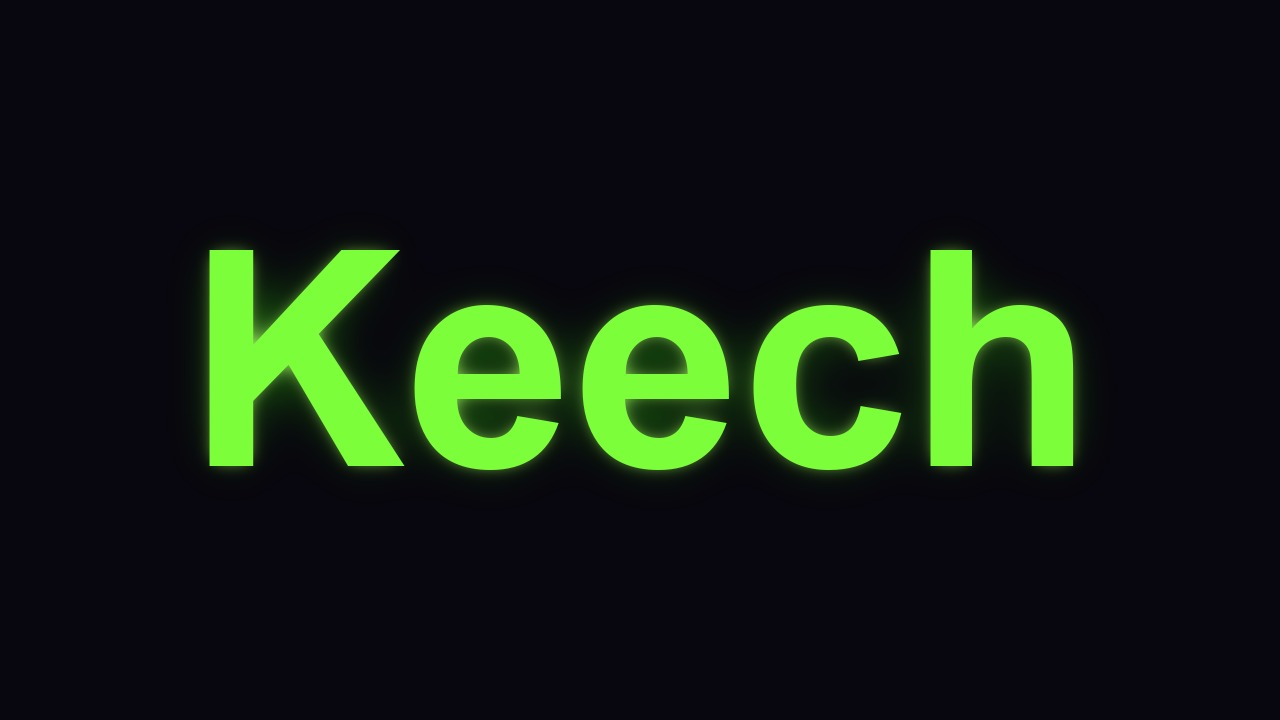
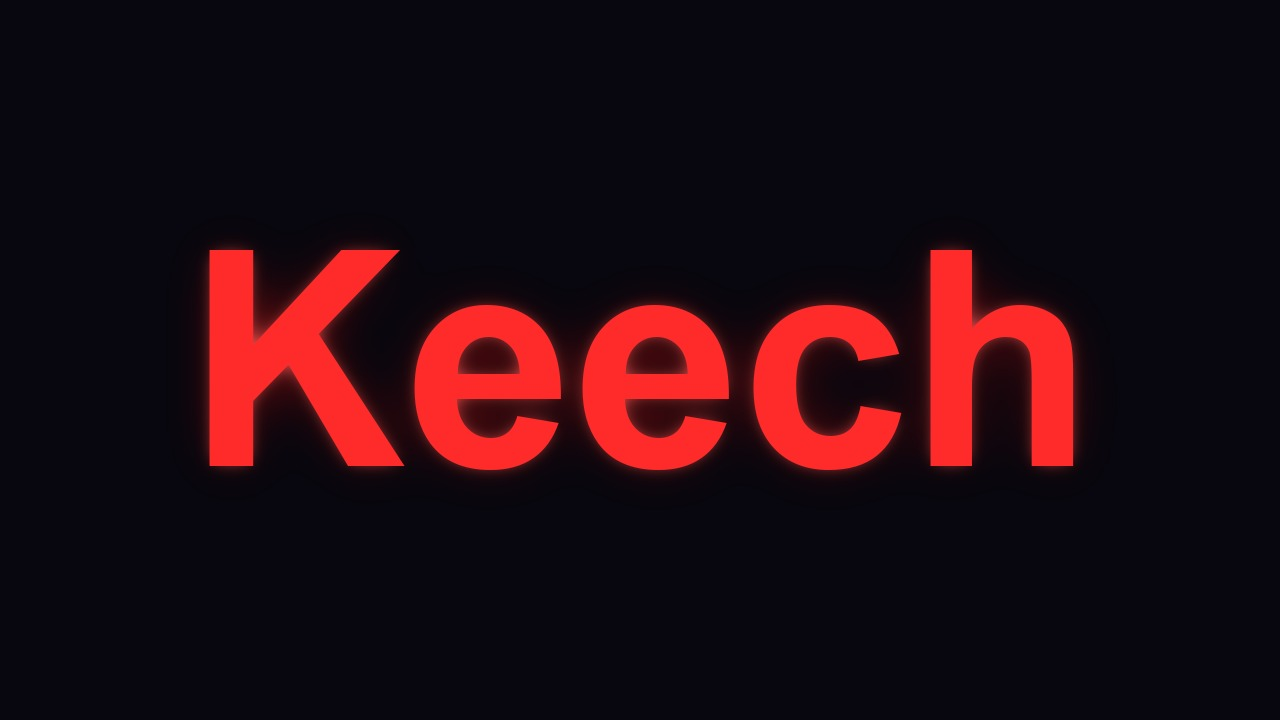
Switch Halloween nick to bright scarlet and refresh BP art.
Flat #FF2A2A on ratings and matching reward cutout/preview.

Changed region(s): [[0.1562, 0.3361, 0.8438, 0.6722]]

diff --git a/src/app/globals.css b/src/app/globals.css
@@ -1392,9 +1392,9 @@ body:has(.tm-sapper-page) {
   position: relative;
   display: inline-block;
   overflow: visible;
-  color: #7CFF3A;
+  color: #FF2A2A;
   background: none;
-  -webkit-text-fill-color: #7CFF3A;
+  -webkit-text-fill-color: #FF2A2A;
   -webkit-text-stroke: 0;
   font-family: var(--font-display), Oxanium, Manrope, sans-serif;
   font-size: 1.28rem;
@@ -1402,10 +1402,10 @@ body:has(.tm-sapper-page) {
   letter-spacing: 0.03em;
   line-height: 1.05;
   text-transform: none;
-  /* яркий плоский неон, без объёма — буквы читаются */
+  /* ярко-алый плоский неон, без объёма */
   text-shadow:
-    0 0 6px rgba(124, 255, 58, 0.85),
-    0 0 14px rgba(57, 255, 20, 0.45);
+    0 0 6px rgba(255, 42, 42, 0.9),
+    0 0 14px rgba(255, 20, 20, 0.5);
   transition: text-shadow 0.16s ease, color 0.16s ease;
 }
 .public-rating-nick-label.is-halloween-gothic::before,
@@ -1416,11 +1416,11 @@ body:has(.tm-sapper-page) {
   .public-rating-nick-label.is-halloween-gothic,
 .public-rating-nick-btn.has-custom-nick-style:focus-visible
   .public-rating-nick-label.is-halloween-gothic {
-  color: #A8FF66;
-  -webkit-text-fill-color: #A8FF66;
+  color: #FF5555;
+  -webkit-text-fill-color: #FF5555;
   text-shadow:
-    0 0 8px rgba(168, 255, 102, 0.95),
-    0 0 18px rgba(124, 255, 58, 0.55);
+    0 0 8px rgba(255, 85, 85, 0.95),
+    0 0 18px rgba(255, 42, 42, 0.6);
 }
 .nick-patch-mark,
 .public-rating-bp-patch-test {
@@ -10287,17 +10287,17 @@ body:has(.home-page) {
   position: relative;
   display: inline-block;
   overflow: visible;
-  color: #7CFF3A;
+  color: #FF2A2A;
   background: none;
-  -webkit-text-fill-color: #7CFF3A;
+  -webkit-text-fill-color: #FF2A2A;
   -webkit-text-stroke: 0;
   font-family: var(--font-display), Oxanium, Manrope, sans-serif;
   font-size: 1.28rem;
   font-weight: 900;
   letter-spacing: 0.03em;
   text-shadow:
-    0 0 6px rgba(124, 255, 58, 0.85),
-    0 0 14px rgba(57, 255, 20, 0.45);
+    0 0 6px rgba(255, 42, 42, 0.9),
+    0 0 14px rgba(255, 20, 20, 0.5);
 }
 
 .home-nick-label.is-halloween-gothic::before,

diff --git a/src/lib/battlePassSeason2.ts b/src/lib/battlePassSeason2.ts
@@ -229,13 +229,13 @@ export const BP_S2_REWARDS: BpReward[] = [
   {
     level: 15,
     id: "hw2-nick",
-    name: "Неоновая жатва",
+    name: "Алая жатва",
     short: "Текст",
     kind: "nick",
     preview:
-      "Яркий неоново-зелёный ник — плоские чёткие буквы",
-    hover: "Неоновая жатва · ур. 15 Season 2 Halloween",
-    image: "/bp-halloween/nick-v2.jpg?v=neon1",
+      "Ярко-алый неоновый ник — плоские чёткие буквы",
+    hover: "Алая жатва · ур. 15 Season 2 Halloween",
+    image: "/bp-halloween/nick-v2.jpg?v=scarlet1",
   },
   {
     level: 20,
@@ -273,7 +273,7 @@ export function s2RewardFullImage(reward: BpReward): string {
   if (reward.id === "hw2-knife") return "/bp-halloween/knife-hook-v2-cutout.png?v=blood1";
   if (reward.id === "hw2-gun") return "/bp-halloween/weapon-ak-v2-cutout.png?v=blood1";
   if (reward.id === "hw2-trophy") return "/bp-halloween/pomegranate-relic-v1-cutout.png?v=3";
-  if (reward.id === "hw2-nick") return "/bp-halloween/nick-v2-cutout.png?v=neon1";
+  if (reward.id === "hw2-nick") return "/bp-halloween/nick-v2-cutout.png?v=scarlet1";
   return reward.image || BP_S2_IDLE_ART;
 }
 
@@ -286,7 +286,7 @@ export function s2RewardMileImage(reward: BpReward): string {
   if (reward.id === "hw2-knife") return "/bp-halloween/knife-hook-v2-cutout.png?v=blood1";
   if (reward.id === "hw2-gun") return "/bp-halloween/weapon-ak-v2-cutout.png?v=blood1";
   if (reward.id === "hw2-trophy") return "/bp-halloween/pomegranate-relic-v1-cutout.png?v=3";
-  if (reward.id === "hw2-nick") return "/bp-halloween/nick-v2-cutout.png?v=neon1";
+  if (reward.id === "hw2-nick") return "/bp-halloween/nick-v2-cutout.png?v=scarlet1";
   return reward.image || BP_S2_IDLE_ART;
 }
 

diff --git a/src/lib/profileNickStyles.ts b/src/lib/profileNickStyles.ts
@@ -12,8 +12,8 @@ export const PROFILE_NICK_STYLE_OPTIONS = [
   },
   {
     id: "hw2-violet-gothic",
-    label: "Неоновая жатва",
-    tip: "Яркий неоново-зелёный ник · Награда за 15 уровень Halloween Season 2",
+    label: "Алая жатва",
+    tip: "Ярко-алый неоновый ник · Награда за 15 уровень Halloween Season 2",
     cssClass: "is-halloween-gothic",
     gate: "creator" as const,
   },

diff --git a/docs/CHANGELOG.md b/docs/CHANGELOG.md
@@ -1,3 +1,9 @@
+## v. 1.2.125 — 03.11.2026 · «Алая жатва»
+
+Ник и арт BP — ярко-алый #FF2A2A, плоские чёткие буквы.
+
+---
+
 ## v. 1.2.124 — 03.11.2026 · BP: арт ника «Неоновая жатва»
 
 Превью и иконка награды в Battle Pass — яркий плоский неон #7CFF3A, как живой ник.
